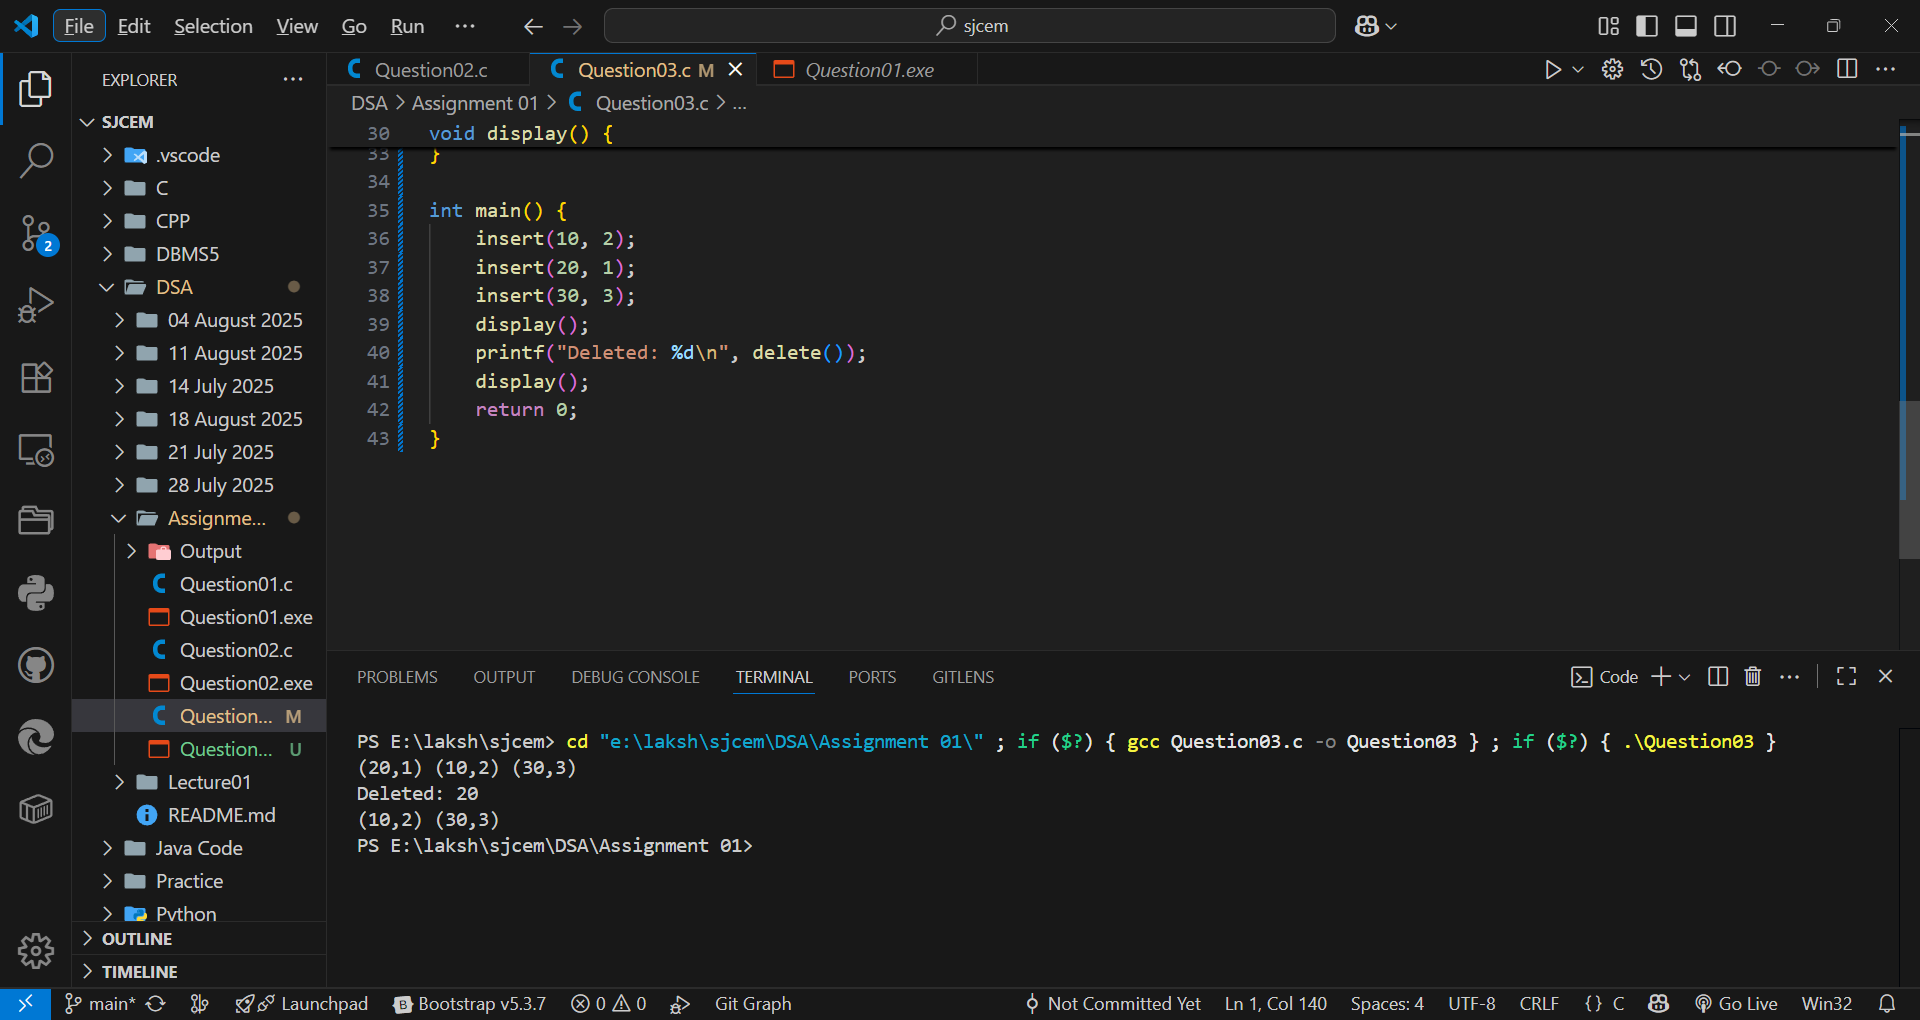
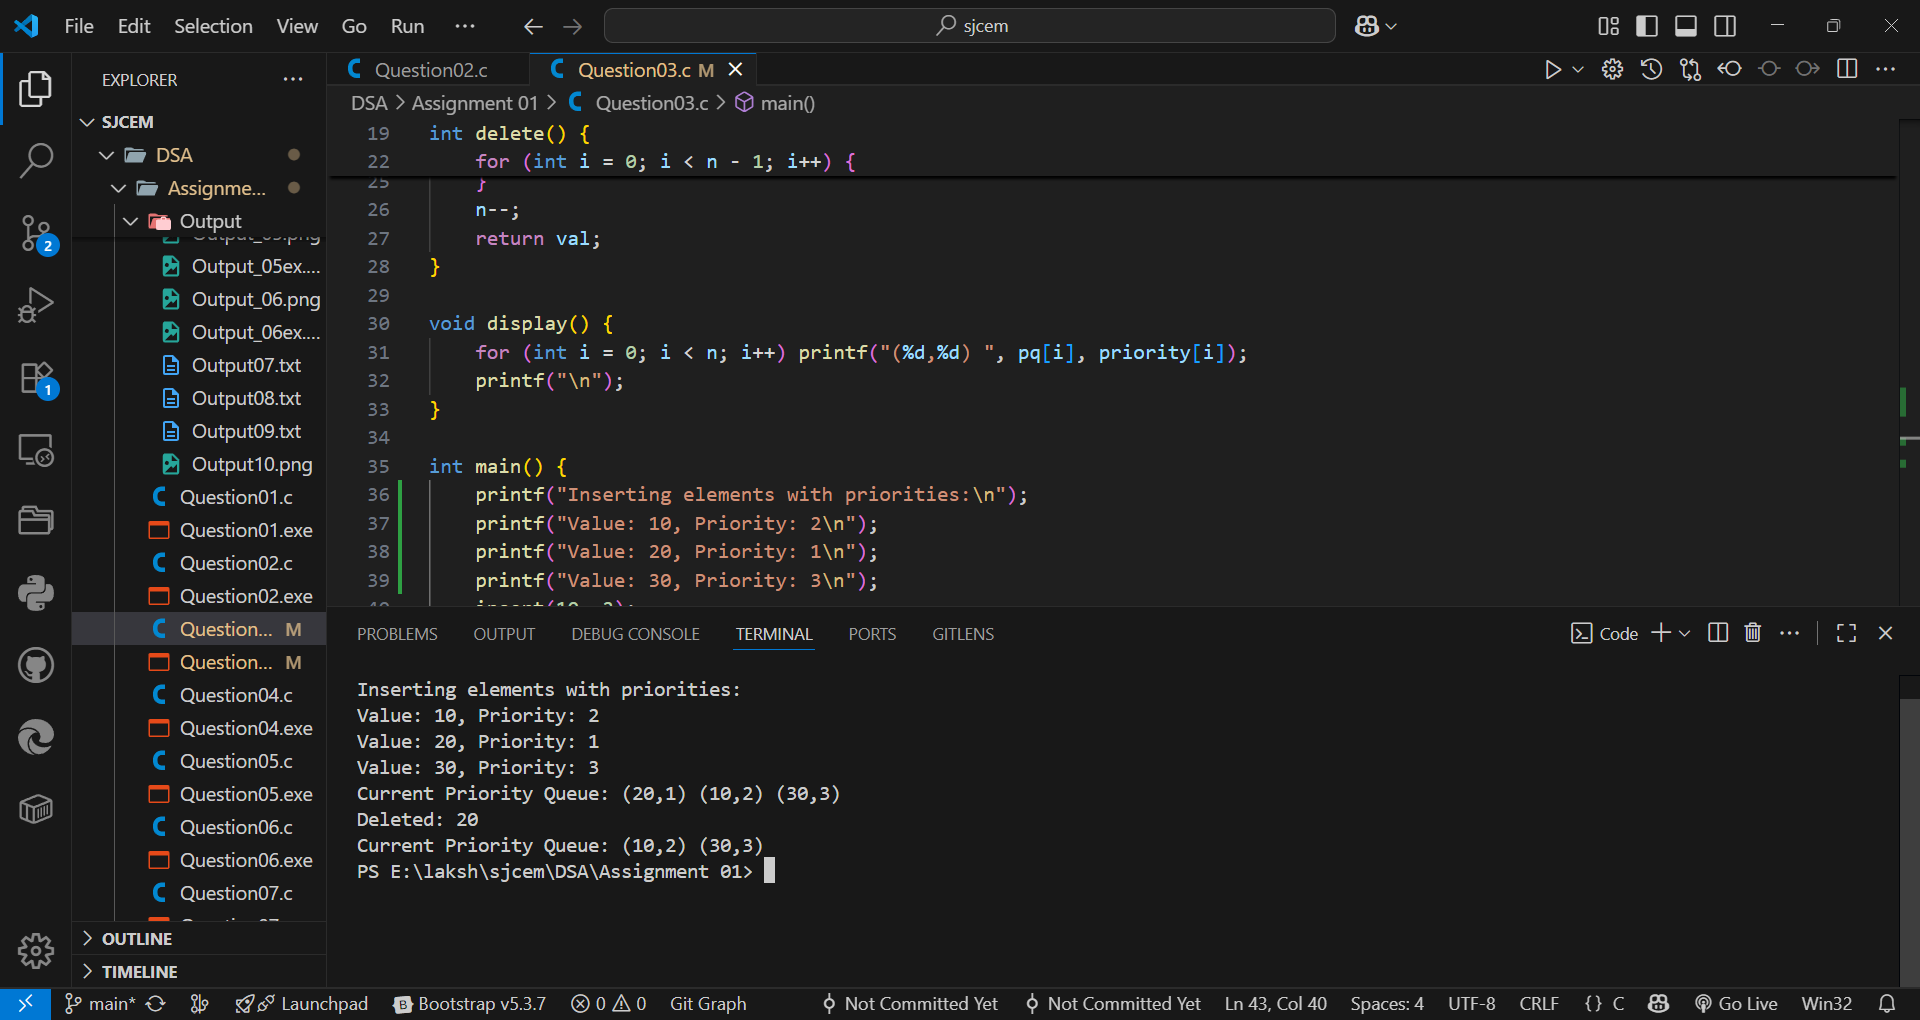
update 03

diff --git a/DSA/Assignment 01/Question03.c b/DSA/Assignment 01/Question03.c
@@ -33,11 +33,17 @@ void display() {
 }
 
 int main() {
+    printf("Inserting elements with priorities:\n");
+    printf("Value: 10, Priority: 2\n");
+    printf("Value: 20, Priority: 1\n");
+    printf("Value: 30, Priority: 3\n");
     insert(10, 2);
     insert(20, 1);
     insert(30, 3);
+    printf("Current Priority Queue: ");
     display();
     printf("Deleted: %d\n", delete());
+    printf("Current Priority Queue: ");
     display();
     return 0;
 }
